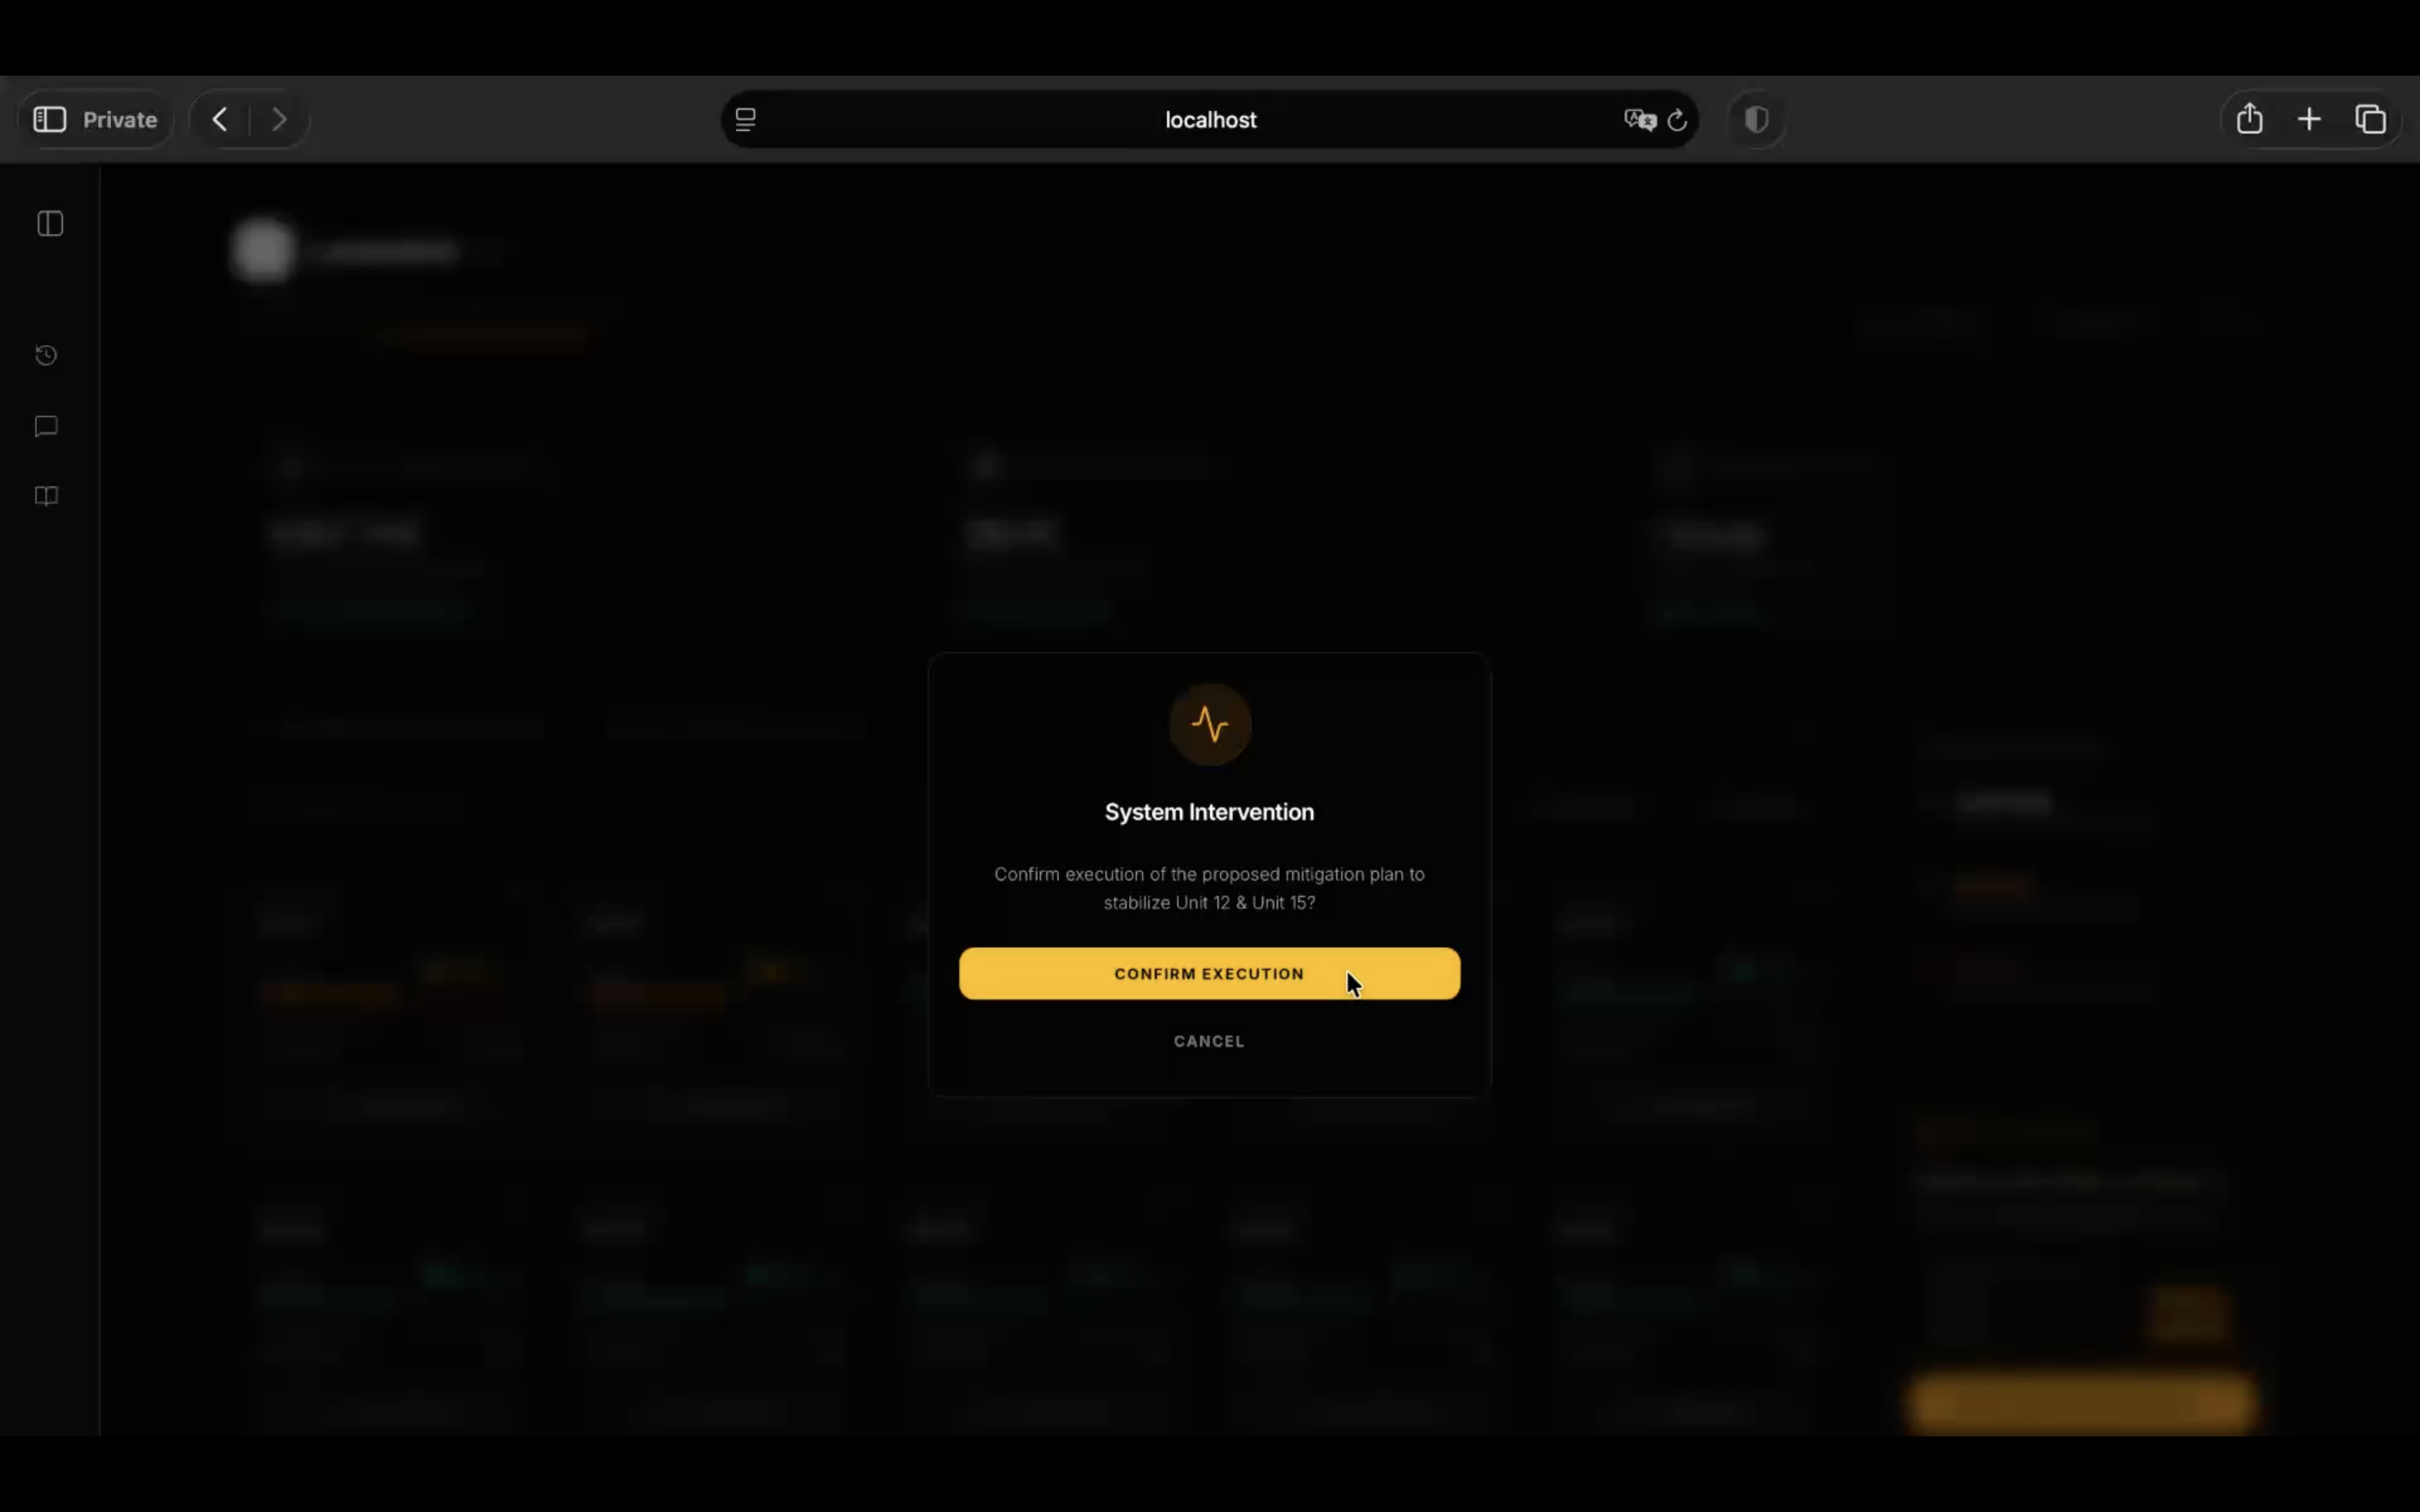
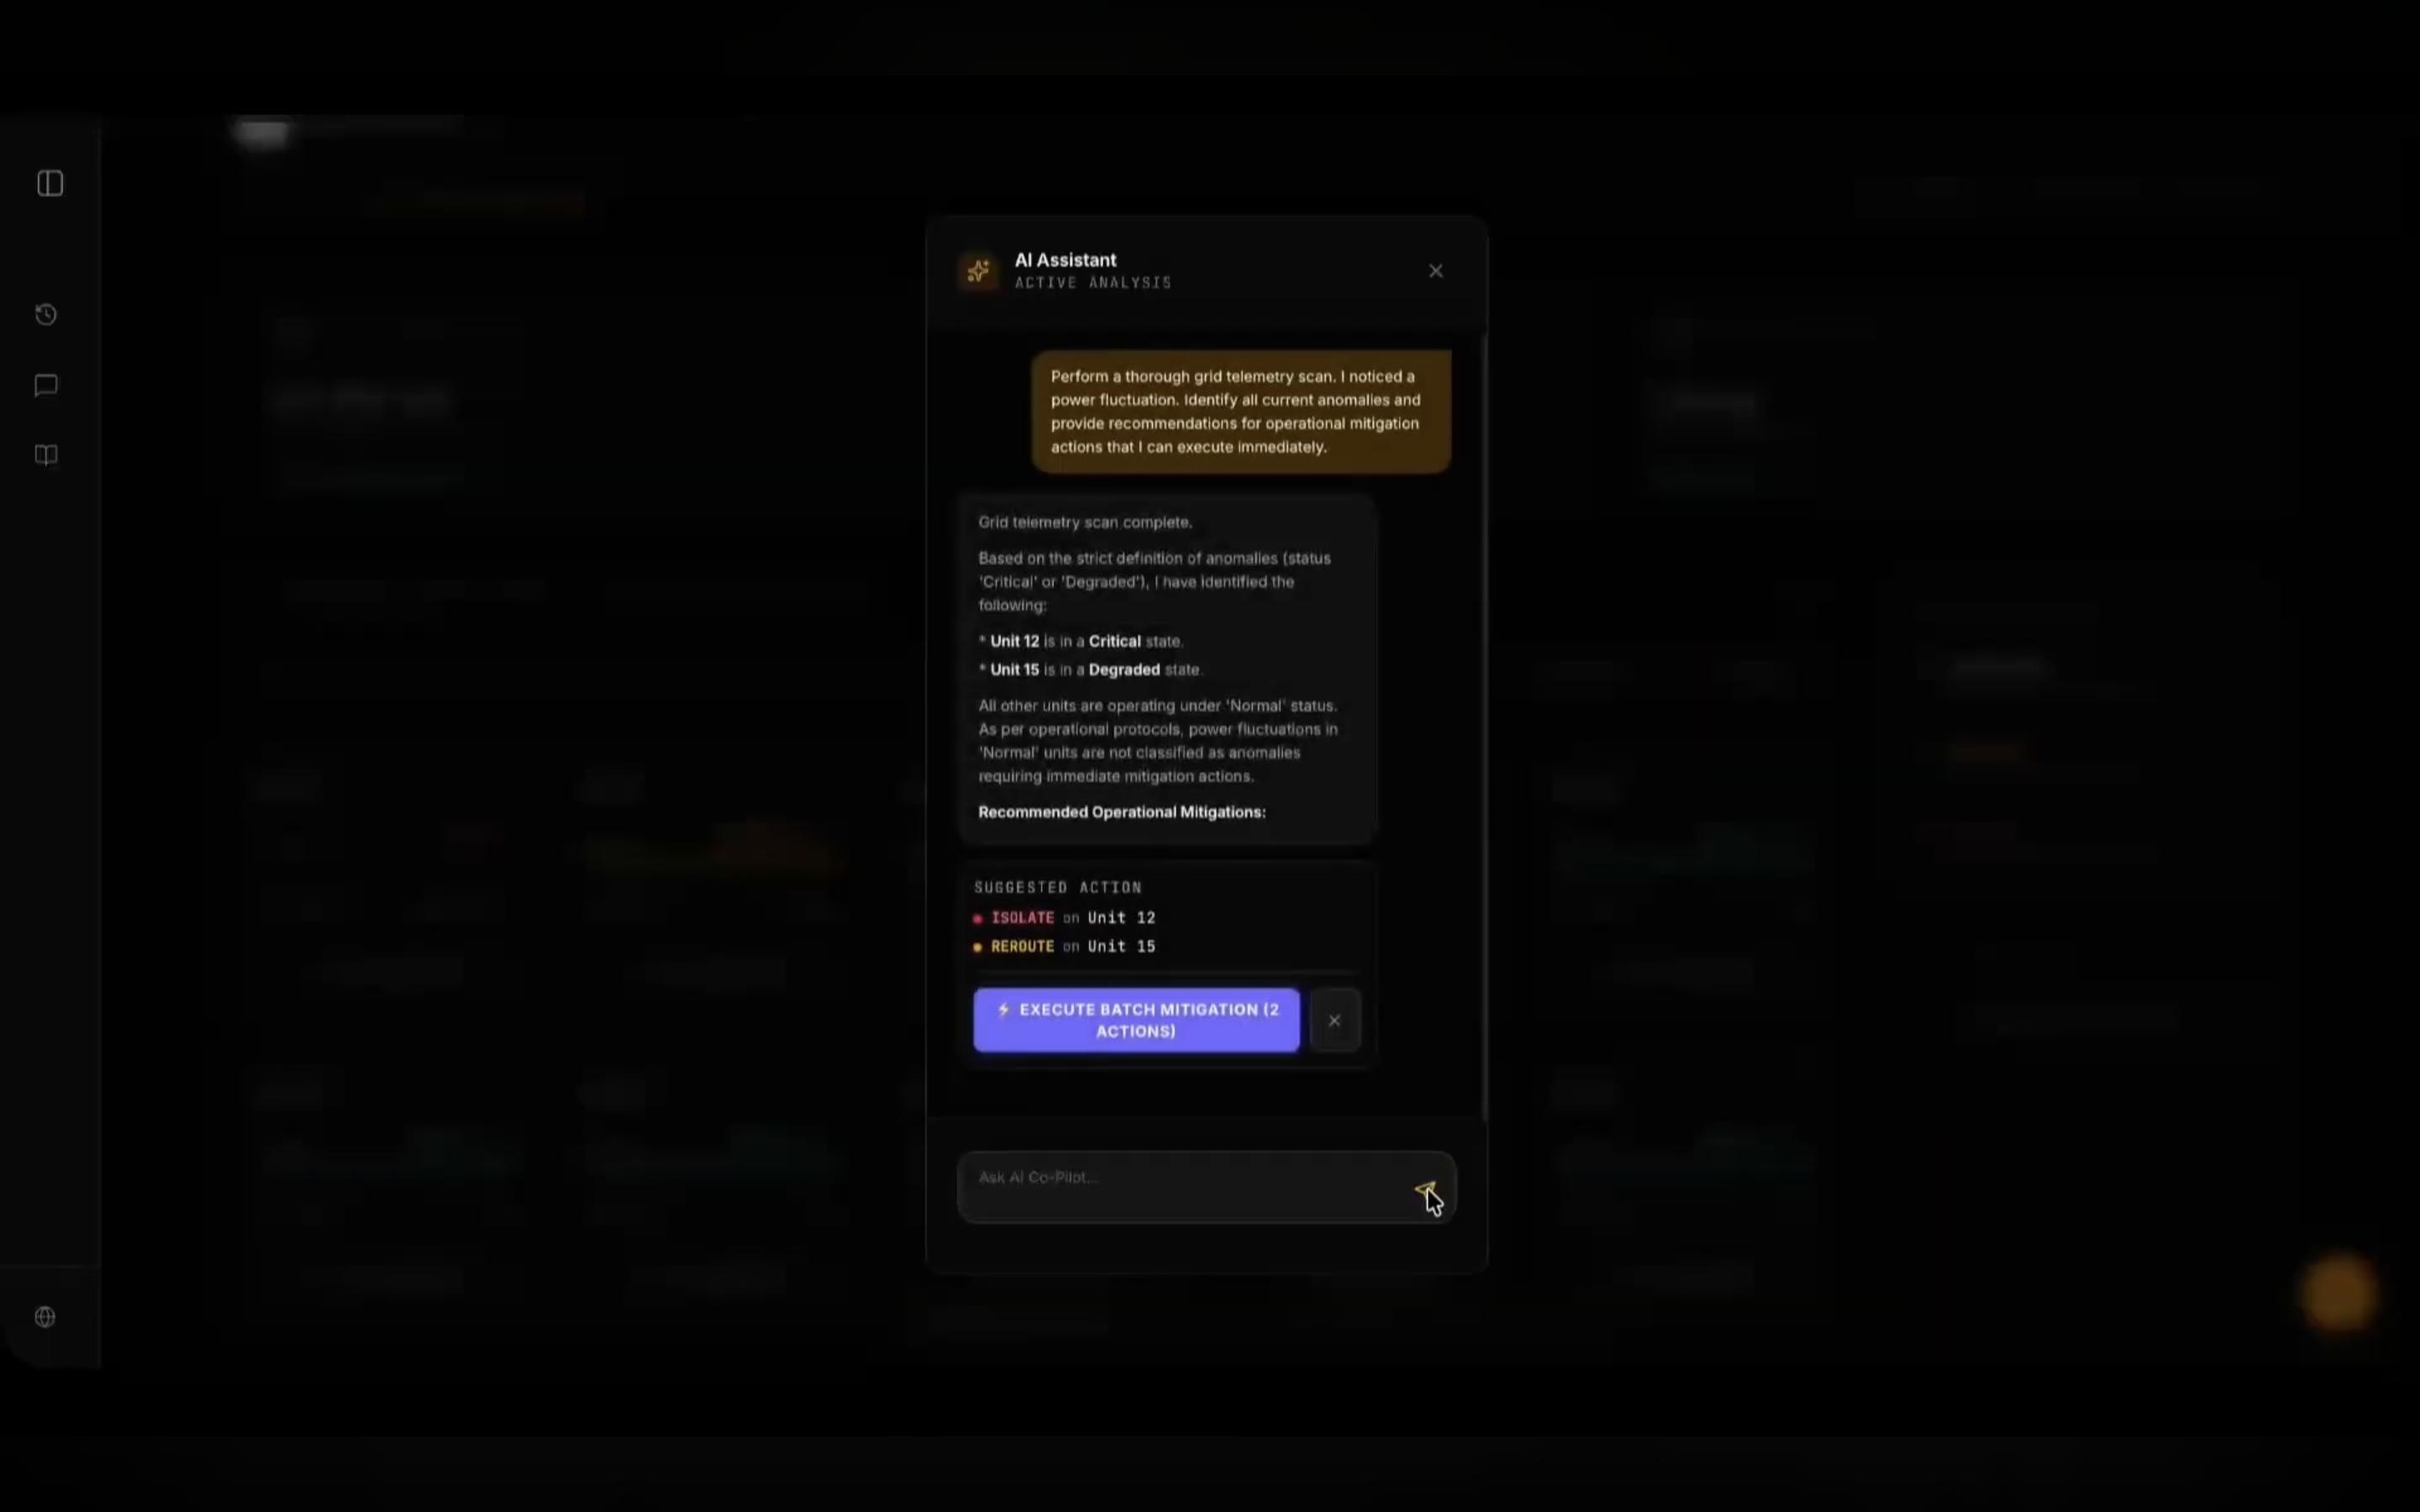
add lumina grid

diff --git a/app/project/[slug]/page.tsx b/app/project/[slug]/page.tsx
@@ -48,8 +48,10 @@ export default async function ProjectDetail({ params }: Props) {
   if (!project) return notFound();
 
   // Check if link is YouTube and extract ID
-  const isYouTube = project.link ? (project.link.includes("youtube.com") || project.link.includes("youtu.be")) : false;
-  const youtubeId = isYouTube ? getYouTubeId(project.link!) : null;
+  const links = Array.isArray(project.link) ? project.link : (project.link ? [project.link] : []);
+  const youtubeLink = links.find(l => l.includes("youtube.com") || l.includes("youtu.be"));
+  const isYouTube = !!youtubeLink;
+  const youtubeId = youtubeLink ? getYouTubeId(youtubeLink) : null;
 
   return (
     // Added scroll-smooth so clicking the button smoothly glides down the page
@@ -96,47 +98,51 @@ export default async function ProjectDetail({ params }: Props) {
                   ))}
                 </div>
                 
-                {project.link && (
-                  <div className="pt-6">
-                    <a 
-                      // 1. If YouTube, anchor down to #video-demo. Else, standard external link
-                      href={isYouTube ? "#video-demo" : project.link} 
-                      // 2. If YouTube, don't open a new tab
-                      target={isYouTube ? "_self" : "_blank"} 
-                      rel={isYouTube ? "" : "noopener noreferrer"} 
-                      className="inline-flex items-center justify-center w-full bg-[#1d1d1f] dark:bg-white text-white dark:text-black px-6 py-4 rounded-xl font-bold hover:bg-black dark:hover:bg-gray-200 transition-colors shadow-md active:scale-95 gap-2"
-                    >
-                      {/* Button Content Logic */}
-                      {project.link.includes("github.com") ? (
-                        <>
-                          <svg xmlns="http://www.w3.org/2000/svg" width="18" height="18" viewBox="0 0 24 24" fill="none" stroke="currentColor" strokeWidth="2" strokeLinecap="round" strokeLinejoin="round"><path d="M15 22v-4a4.8 4.8 0 0 0-1-3.2c3 0 6-2 6-5.5.08-1.25-.27-2.48-1-3.5.28-1.15.28-2.35 0-3.5 0 0-1 0-3 1.5-2.64-.5-5.36-.5-8 0C6 2 5 2 5 2c-.3 1.15-.3 2.35 0 3.5A5.403 5.403 0 0 0 4 9c0 3.5 3 5.5 6 5.5-.39.49-.68 1.05-.85 1.65-.17.6-.22 1.23-.15 1.85v4"/><path d="M9 18c-4.51 2-5-2-7-2"/></svg>
-                          View Source Code
-                        </>
-                      ) : project.link.includes("figma.com") ? (
-                        "View Prototype"
-                      ) : isYouTube ? (
-                        <>
-                          <svg xmlns="http://www.w3.org/2000/svg" width="18" height="18" viewBox="0 0 24 24" fill="none" stroke="currentColor" strokeWidth="2" strokeLinecap="round" strokeLinejoin="round"><polygon points="5 3 19 12 5 21 5 3"/></svg>
-                          Watch Video Demo
-                        </>
-                      ) : (project.link.includes("vimeo.com") || project.link.includes("drive.google.com")) ? (
-                        <>
-                          {project.slug === "kwp-syariah" ? (
+                {links.length > 0 && (
+                  <div className="pt-6 flex flex-col gap-3">
+                    {links.map((linkUrl, idx) => {
+                      const isThisYouTube = linkUrl.includes("youtube.com") || linkUrl.includes("youtu.be");
+                      return (
+                        <a 
+                          key={idx}
+                          href={isThisYouTube ? "#video-demo" : linkUrl} 
+                          target={isThisYouTube ? "_self" : "_blank"} 
+                          rel={isThisYouTube ? "" : "noopener noreferrer"} 
+                          className="inline-flex items-center justify-center w-full bg-[#1d1d1f] dark:bg-white text-white dark:text-black px-6 py-4 rounded-xl font-bold hover:bg-black dark:hover:bg-gray-200 transition-colors shadow-md active:scale-95 gap-2"
+                        >
+                          {/* Button Content Logic */}
+                          {linkUrl.includes("github.com") ? (
                             <>
-                              <svg xmlns="http://www.w3.org/2000/svg" width="18" height="18" viewBox="0 0 24 24" fill="none" stroke="currentColor" strokeWidth="2" strokeLinecap="round" strokeLinejoin="round" className="lucide lucide-file-text"><path d="M15 2H6a2 2 0 0 0-2 2v16a2 2 0 0 0 2 2h12a2 2 0 0 0 2-2V7Z"/><path d="M14 2v4a2 2 0 0 0 2 2h4"/><path d="M10 9H8"/><path d="M16 13H8"/><path d="M16 17H8"/></svg>
-                              View Documentation
+                              <svg xmlns="http://www.w3.org/2000/svg" width="18" height="18" viewBox="0 0 24 24" fill="none" stroke="currentColor" strokeWidth="2" strokeLinecap="round" strokeLinejoin="round"><path d="M15 22v-4a4.8 4.8 0 0 0-1-3.2c3 0 6-2 6-5.5.08-1.25-.27-2.48-1-3.5.28-1.15.28-2.35 0-3.5 0 0-1 0-3 1.5-2.64-.5-5.36-.5-8 0C6 2 5 2 5 2c-.3 1.15-.3 2.35 0 3.5A5.403 5.403 0 0 0 4 9c0 3.5 3 5.5 6 5.5-.39.49-.68 1.05-.85 1.65-.17.6-.22 1.23-.15 1.85v4"/><path d="M9 18c-4.51 2-5-2-7-2"/></svg>
+                              View Source Code
                             </>
-                          ) : (
+                          ) : linkUrl.includes("figma.com") ? (
+                            "View Prototype"
+                          ) : isThisYouTube ? (
                             <>
                               <svg xmlns="http://www.w3.org/2000/svg" width="18" height="18" viewBox="0 0 24 24" fill="none" stroke="currentColor" strokeWidth="2" strokeLinecap="round" strokeLinejoin="round"><polygon points="5 3 19 12 5 21 5 3"/></svg>
                               Watch Video Demo
                             </>
+                          ) : (linkUrl.includes("vimeo.com") || linkUrl.includes("drive.google.com")) ? (
+                            <>
+                              {project.slug === "kwp-syariah" ? (
+                                <>
+                                  <svg xmlns="http://www.w3.org/2000/svg" width="18" height="18" viewBox="0 0 24 24" fill="none" stroke="currentColor" strokeWidth="2" strokeLinecap="round" strokeLinejoin="round" className="lucide lucide-file-text"><path d="M15 2H6a2 2 0 0 0-2 2v16a2 2 0 0 0 2 2h12a2 2 0 0 0 2-2V7Z"/><path d="M14 2v4a2 2 0 0 0 2 2h4"/><path d="M10 9H8"/><path d="M16 13H8"/><path d="M16 17H8"/></svg>
+                                  View Documentation
+                                </>
+                              ) : (
+                                <>
+                                  <svg xmlns="http://www.w3.org/2000/svg" width="18" height="18" viewBox="0 0 24 24" fill="none" stroke="currentColor" strokeWidth="2" strokeLinecap="round" strokeLinejoin="round"><polygon points="5 3 19 12 5 21 5 3"/></svg>
+                                  Watch Video Demo
+                                </>
+                              )}
+                            </>
+                          ) : (
+                            "Visit Live Project"
                           )}
-                        </>
-                      ) : (
-                        "Visit Live Project"
-                      )}
-                    </a>
+                        </a>
+                      );
+                    })}
                   </div>
                 )}
               </div>
@@ -185,7 +191,7 @@ export default async function ProjectDetail({ params }: Props) {
 
           {/* Visual Gallery */}
           <div className="rounded-[2.5rem] overflow-hidden shadow-2xl border border-gray-200 dark:border-white/10 bg-white dark:bg-[#111] transition-colors mt-8">
-            <ImageCarousel images={project.images} link={project.link} />
+            <ImageCarousel images={project.images} link={links.length > 0 ? links[0] : undefined} />
           </div>
 
           {/* Conditional YouTube Embed Section */}

diff --git a/data/portfolio.ts b/data/portfolio.ts
@@ -190,19 +190,19 @@ export const projects = [
   // --- TIER 1: THE POWER FIVE (Fully Expanded Apple Narrative) ---
   {
     slug: "luminagrid-os",
-    title: "LuminaGrid OS: Autonomous AI SCADA Dashboard",
+    title: "LuminaGrid OS: Proactive AI-Driven Grid Management",
     category: "AI Agent & Fullstack Architecture",
     context: "Advanced System Architecture",
     role: "AI Software Engineer",
     summary:
-      "An enterprise-grade SCADA dashboard powered by an autonomous Gemini 2.5 Flash AI Co-Pilot. The system utilizes a custom RAG pipeline and NLP parsing to translate real-time grid telemetry into executable, zero-latency mitigation actions.",
+      "An enterprise-grade SCADA dashboard powered by a proactive Gemini 2.5 Flash AI Co-Pilot. Engineered as a Cloud-Native Monolithic application, the system utilizes a custom RAG pipeline to translate real-time grid telemetry into executable mitigation actions, ensuring operational stability across expanding solar fleets.",
     details: {
       problem:
-        "Traditional industrial control systems often suffer from high visualization latency and severe operator alarm fatigue. Furthermore, manually diagnosing hardware faults and formulating mitigation strategies across a massive fleet is time-consuming and prone to human error during emergencies.",
+        "As industrial control systems scale, operators face severe cognitive overload and alarm fatigue from noisy, high-volume IoT data. Monitoring expanding grid units manually forces maintenance teams into a reactive cycle, where identifying hardware faults or weather-induced degradation becomes time-consuming, prone to human error, and drives up operational costs during emergencies.",
       solution:
-        "Engineered an autonomous AI agent utilizing LangChain and Gemini 2.5 Flash to act as a proactive grid Co-Pilot. I built a background ingestion pipeline streaming real-world Kaggle Solar Generation data via SSE, which the AI analyzes in real-time. By implementing advanced prompt engineering and a custom Regex NLP parser, the AI's diagnostic reasoning is instantly translated into interactive batch execution buttons for operators.",
+        "I built a proactive AI Co-Pilot utilizing LangChain and Gemini 2.5 Flash to act as an intelligent intermediary between raw data and the operator. The system ingests Kaggle Solar Generation data via a zero-latency Server-Sent Events (SSE) pipeline, fortified with Last Known Good Value (LKGV) logic to eliminate UI flickering during sensor dropouts. The AI's diagnostic reasoning is instantly parsed into structured JSON payloads, presenting operators with interactive, batch-execution mitigation plans.",
       impact:
-        "Delivered a fault-tolerant, Human-in-the-Loop (HITL) interface where operators can execute complex AI-recommended mitigations with zero latency. The system eliminates alarm fatigue through contextual reasoning while strictly persisting immutable transaction audit trails to MongoDB."
+        "Successfully deployed to Google Cloud Run, the system delivers a fault-tolerant, Human-in-the-Loop (HITL) interface where operators can execute complex AI-recommended mitigations instantly safely. The application eliminates alarm fatigue, drastically reduces mitigation response times, and strictly persists immutable transaction audit trails to MongoDB for enterprise compliance."
     },
     tech: [
       "Gemini 2.5 Flash",
@@ -214,7 +214,7 @@ export const projects = [
       "MongoDB"
     ],
     year: "2026",
-    link: "https://github.com/frddyy/lumina-grid",
+    link: ["https://youtu.be/V5wP-cFa01w", "https://github.com/frddyy/lumina-grid.git"],
     images: [
       "/assets/images/portfolio/lumina-grid/1.png",
       "/assets/images/portfolio/lumina-grid/2.png",